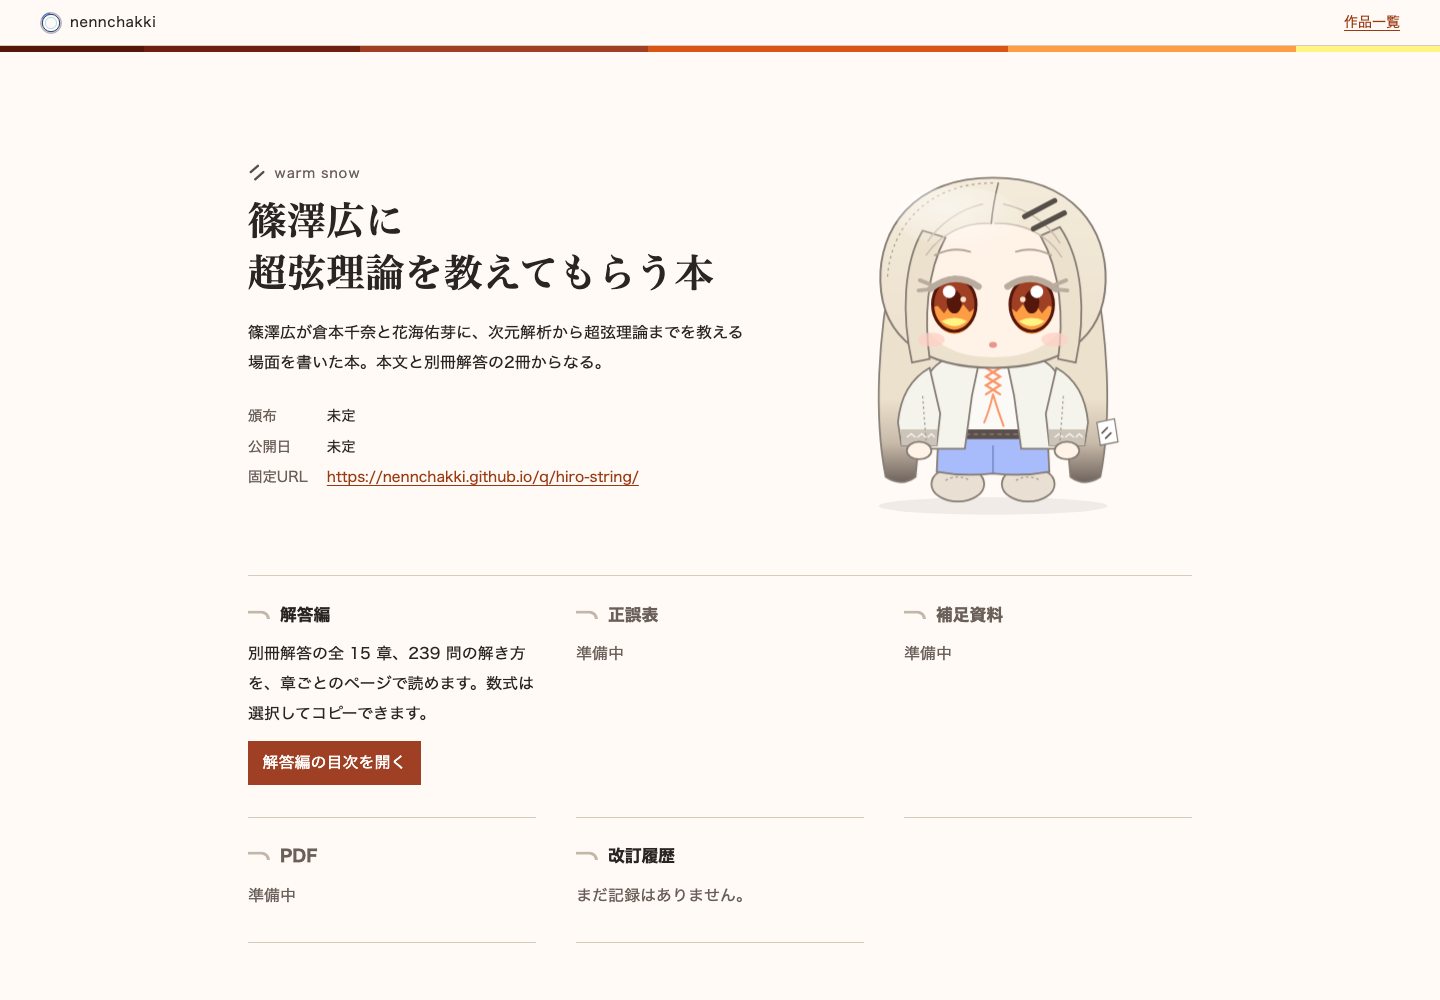
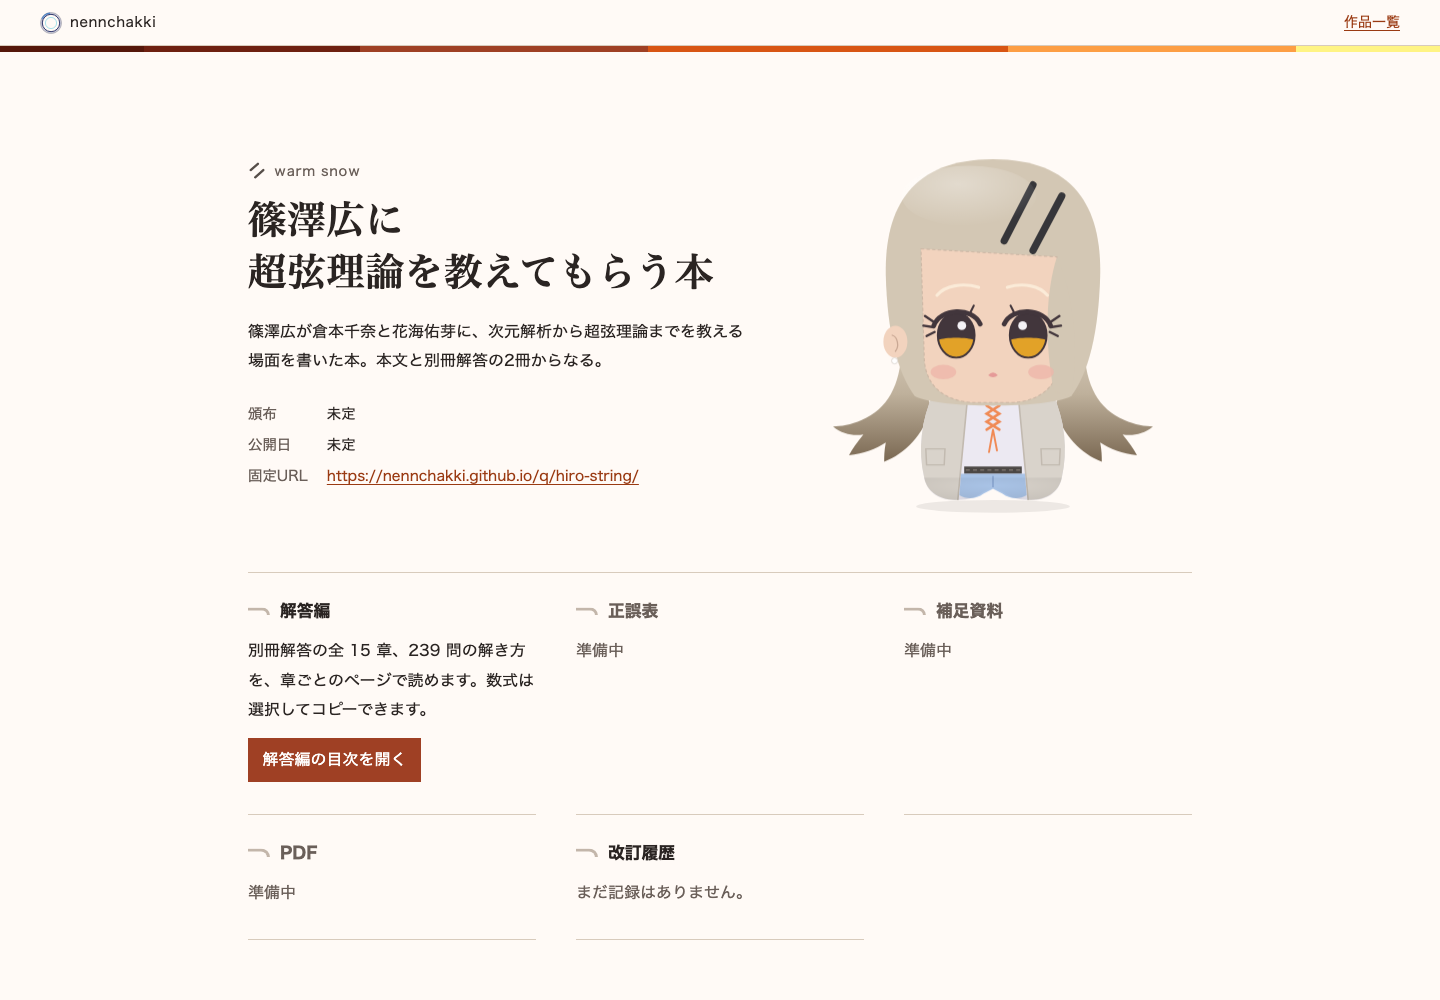
作品ページの絵を、バンプレストのちびぐるみ（篠澤広 vol.3）の形を調べて描き直す。調査記録を追加

diff --git a/docs/research/hiro-chibigurumi.md b/docs/research/hiro-chibigurumi.md
@@ -1,0 +1,56 @@
+# 篠澤広のちびぐるみ（バンプレスト）調査
+
+調べた日: 2026-11-09。作品ページに置く「ちびぐるみ風の絵」を描くため、公式の商品の形を調べた。
+商品写真は `.private/reference/chibigurumi/` にだけ保存し、公開しない（転載不可。`hiro.md` §6 と同じ理由）。
+
+## 1. 「ちびぐるみ」とは
+
+BANDAI SPIRITS のプライズブランド「バンプレスト」のぬいぐるみシリーズ。約11cm のマスコットで、ボールチェーンが付く。
+シリーズ一覧: https://bsp-prize.jp/brand/2/ （作品別: https://bsp-prize.jp/brand/2/item-by-title/IP00005012/ ）
+
+## 2. 篠澤広が入っている商品（バンプレストナビの商品ページで確認）
+
+| 商品 | 登場時期 | 衣装（写真の目視） | URL |
+|---|---|---|---|
+| 学園アイドルマスター ちびぐるみvol.3 | 2024-12-20 | 私服（カーディガン、編み上げのブラウス、デニム） | https://bsp-prize.jp/item/2766551/ |
+| ちびぐるみ～on stage!～vol.2 | 2025-05-15〜 | ステージ衣装 | https://bsp-prize.jp/brand/2/item/5848/ （特集記事） |
+| ちびぐるみ～on stage!～vol.3 | 2025-07-08〜 | ステージ衣装（白と水色、編み込みの髪） | https://bsp-prize.jp/brand/2/item/5938/ （特集記事） |
+| ちびぐるみ～学園生活～vol.3 | 2026-01-22〜 | 学園生活の衣装 | https://bsp-prize.jp/item/2829689/ |
+| ちびぐるみ～ジョイフルマーチング～vol.3 | 2026-05-12〜 | マーチングバンドの衣装 | https://bsp-prize.jp/item/2809124/ |
+| ちびぐるみ～ユニットコレクション～vol.4 | 2026-10-08〜 | 「ゆめぱしー」のユニット衣装 | https://bsp-prize.jp/item/2846370/ |
+
+各ページの商品仕様は「全3種・約11cm」（ジョイフルマーチング vol.4 などは全4種）。
+on stage! vol.2 は特集記事の本文で篠澤広の名前を確認しただけで、写真は見ていない。
+
+## 3. 形の共通点（vol.3・on stage! vol.3・ユニットコレクション vol.4 の写真の目視）
+
+- 頭が全体の 6 割ほどを占める。胴は頭の下に小さく付き、腕と脚は作らない。胴の下端が二つに分かれて短い足になる。
+- 顔は肌色の布を髪の布にはめ込んだ形。顔の布の上の辺はほぼまっすぐ（向かって右が少し下がる）、横の辺もまっすぐで、下は丸い。顔の右側には髪が垂れて顔の布にかかる。
+- 髪は額の上で大きく丸い。肩の高さで毛先が左右へ羽のように広がり、毛先ほど暗い（グラデーションの布）。
+- ヘアピン 2 本は、髪の右上に黒い太い斜線として刺繍されている（私服・学園生活の衣装。ステージ衣装の編み込みの髪型では見えない）。
+- 目は刺繍で、横幅より縦が長い。上 6 割ほどが暗い色、下が琥珀色。白いハイライトが 1 つ。上まぶたの線が太く、目尻側に短いまつ毛が 3 本ほど出る。
+- 眉は淡い色の細い刺繍で、目からかなり離れた高い位置にある。
+- 鼻は小さな桃色の点。口は vol.3 の写真では刺繍がない（ほかの子は口がある）。
+- 向かって左の耳だけが髪から出ていて、白い粒のピアスが付く。その下で、手が顔の横に少しのぞく。
+
+## 4. 色（vol.3 の商品写真から取った近似値。布の色なので立ち絵より彩度が低い）
+
+| 部位 | HEX |
+|---|---|
+| 髪（上） | #CCC0AE |
+| 髪の毛先 | #726048〜#847260 |
+| 顔の布 | #EAC6AE |
+| 目の暗い部分 | #42363C |
+| 目の琥珀色 | #DEA224 |
+| 眉 | #E4C6AE（肌より少し明るい糸） |
+| 頬 | #EAB4A8 |
+| ヘアピン | #3C3C3C |
+| カーディガン | #CCC6C0 |
+| ブラウス | #D8D2E4 |
+| デニム | #A2C0E4 |
+
+## 5. サイトでの扱い
+
+- 商品写真は転載しない。作品ページの絵（`tools/site/art/hiro-plush.mjs`）は、上の観察をもとに基本図形で描いた。写真をなぞってはいない。
+- 衣装は vol.3 の私服にした。原稿の本文で広が補習をしているのは制服・私服の場面で、ステージ衣装は出てこないため。
+- 絵は公式の商品ではなく、ファンの描いた絵である。サイトのフッターに非公式のファンサイトであることを書いている。

diff --git a/docs/design.md b/docs/design.md
@@ -49,15 +49,15 @@
 
 根拠は `docs/research/hiro.md`。
 
-経緯: 最初の版ではファーストビューを広の目元のクローズアップにしたが、開いた瞬間に大きな目だけが出るのは不気味だという指摘を受けた。2026-11-09 に顔のクローズアップをやめ、題名の横に、ちびぐるみ（座った姿の小さなぬいぐるみ）風の絵を置く構成にした。
+経緯: 最初の版ではファーストビューを広の目元のクローズアップにしたが、開いた瞬間に大きな目だけが出るのは不気味だという指摘を受けた。2026-11-09 に顔のクローズアップをやめ、題名の横に、ちびぐるみ（バンプレストの約11cmのぬいぐるみマスコット）風の絵を置く構成にした。最初に描いた絵は商品を調べずに描いたもので、形が違うという指摘を受け、商品写真を調べて描き直した。
 
 - 冒頭にタイトルと作品の情報を置き、その横（スマートフォンでは下）にちびぐるみ風の絵を置く。
-- ちびぐるみ風の絵（`tools/site/art/hiro-plush.mjs`）は、公式画像をなぞらず、楕円とパスの組み合わせで描いた。形と色は公式立ち絵の観察から取った。
-  - 髪: 根元 #ECE1CD から毛先の #6F645E へ暗くなる長いストレート。前髪を分けて額を出す。
-  - ヘアピン 2 本（向かって右上の平行な斜線、#564E49）。
-  - 瞳: 縁 #55170A、中間 #9F4024、明部 #FD9E44、底の黄色い三日月 #FFF484。まつ毛は淡いグレーベージュ。
-  - 服: 生成りのカーディガン（袖口に葉の柄の帯）、白いブラウスと橙の編み上げの紐 #FC9468、編んだ濃い色のベルト、デニムのショートパンツ #A8BCFC。
-  - 靴は公式立ち絵の範囲外で確認できないため、ぬいぐるみの足として無地の布にした。縫い目の破線と、横のタグ（ヘアピンの記号）はぬいぐるみらしさのための創作。
+- ちびぐるみ風の絵（`tools/site/art/hiro-plush.mjs`）は、バンプレストの公式プライズ「ちびぐるみ」の篠澤広（vol.3、私服）の商品写真を観察して、形と色を合わせた。調査の記録は `docs/research/hiro-chibigurumi.md`。写真はなぞらず、楕円とパスの組み合わせで描いた。
+  - 頭が大きく、胴は小さく、腕と脚がない。胴の下端が短い足になる。
+  - 肌色の顔の布を髪の布にはめ込んだ形で、境目に縫い目の点線を入れた。
+  - 毛先は肩の高さで左右へ広がり、先ほど暗い。ヘアピン 2 本は髪の右上の黒い斜線。
+  - 刺繍の目は縦長で、上が暗く下が琥珀色、ハイライトが 1 つ、目尻に短いまつ毛。眉は淡い細い線、鼻は小さな点、口はない。
+  - 向かって左の耳に白い粒のピアス。その下に手が少しのぞく。
   - `prefers-reduced-motion` が指定されていなければ、ときどき少しだけ傾く。
 - ヘッダーの下の細い帯は、虹彩の層の色を外側から順に並べたもの（縁 #55170A → 暗部 #6E2010 → 中間 #9F4024 → 代表色 #D85513 → 明部 #FD9E44 → 底の三日月 #FFF484。§2.2）。
 - サークル名の前の小さな記号は、ヘアピン 2 本（§4、§5.1）。
